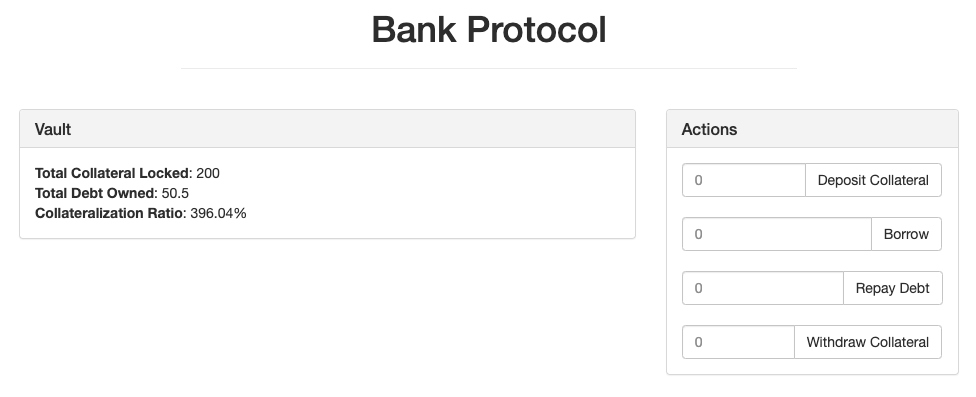
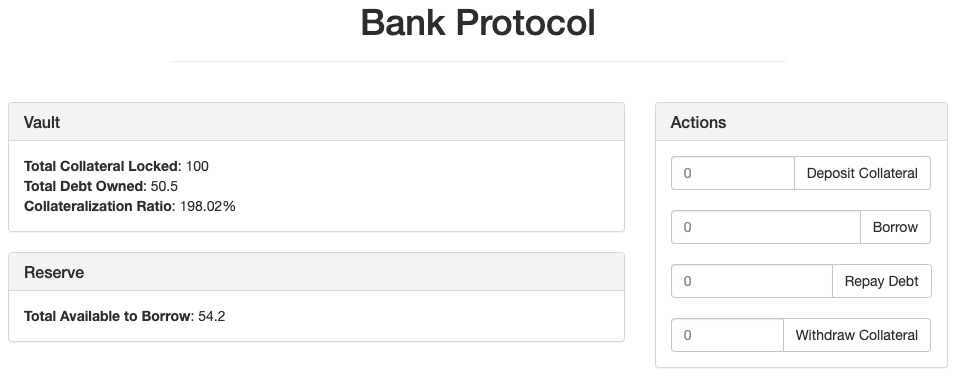
Added UI

diff --git a/src/index.html b/src/index.html
@@ -5,7 +5,7 @@
     <meta http-equiv="X-UA-Compatible" content="IE=edge">
     <meta name="viewport" content="width=device-width, initial-scale=1">
     <!-- The above 3 meta tags *must* come first in the head; any other head content must come *after* these tags -->
-    <title>Crypto Bunker</title>
+    <title>Bank Protocol</title>
 
     <!-- Bootstrap -->
     <link href="css/bootstrap.min.css" rel="stylesheet">
@@ -38,6 +38,16 @@
                 <strong>Total Collateral Locked</strong>: <span class="collateralAmount">0</span><br/>
                 <strong>Total Debt Owned</strong>: <span class="debtAmount">0</span><br/>
                 <strong>Collateralization Ratio</strong>: <span class="collateralizationRatio">0</span><br/>
+              </div>
+            </div>
+          </div>
+          <div id="reserve">
+            <div class="panel panel-default panel-space">
+              <div class="panel-heading">
+                <h3 class="panel-title">Reserve</h3>
+              </div>
+              <div class="panel-body" id="reservePanel">
+                <strong>Total Available to Borrow</strong>: <span class="debtReserveBalance">0</span><br/>
               </div>
             </div>
           </div>

diff --git a/src/js/app.js b/src/js/app.js
@@ -57,10 +57,19 @@ App = {
 
       var account = accounts[0];
       var vaultPanel = $('#vaultPanel');
+      var reservePanel = $('#reservePanel');
+      $('.input-deposit').val('');
+      $('.input-borrow').val('');
+      $('.input-repay').val('');
+      $('.input-withdraw').val('');
 
       App.contracts.Bank.deployed().then(function(instance) {
         bankInstance = instance;
         console.log("Starting");
+        bankInstance.getReserveBalance.call().then(function(reserveBalance){
+          console.log("Reserve: " + reserveBalance.toString());
+          reservePanel.find('.debtReserveBalance').text(reserveBalance/1e18);
+        });
         bankInstance.getVaultCollateralAmount.call().then(function(collateral){
           console.log(collateral.toString());
           vaultPanel.find('.collateralAmount').text(collateral/1e18);
